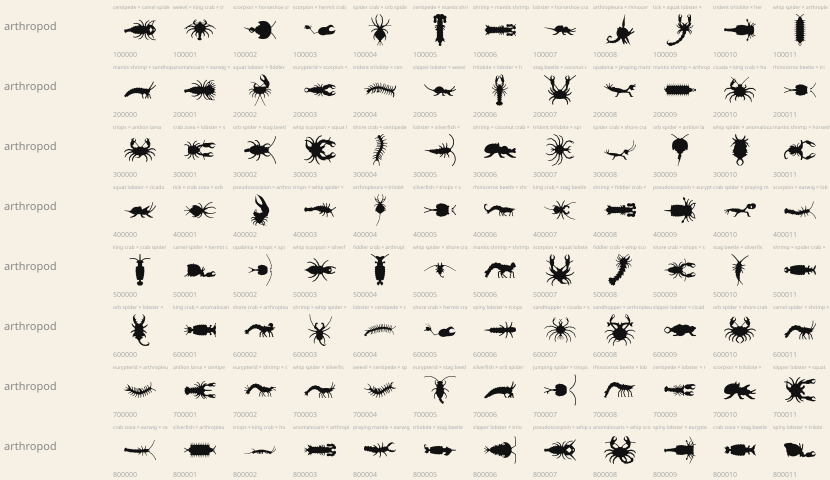
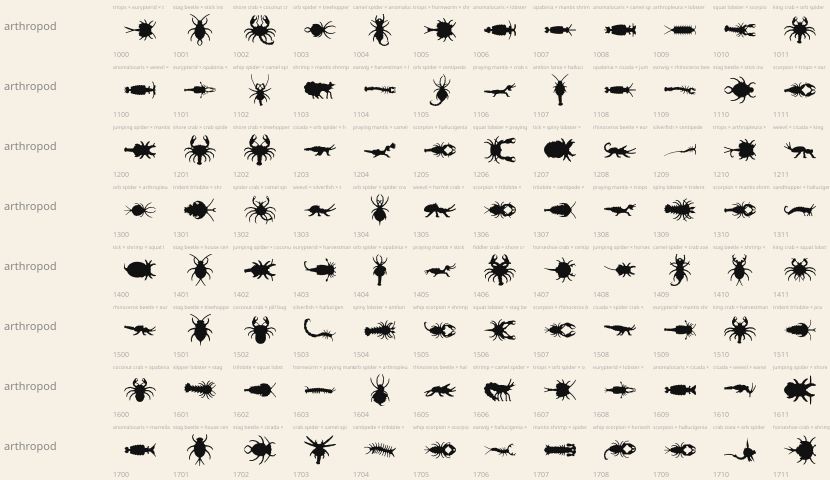
arthropod: chimera fixes (foreign-part detection, chain/plated borrowed pincers and tails, long forms flat, shield legs, thicker insect chimeras, antenna cap)

diff --git a/src/gen/tags/arthropod.js b/src/gen/tags/arthropod.js
@@ -156,7 +156,7 @@ heads.arthropodHead = (C, sock, g) => {
 // In the mount frame F, +y sweeps outward (top view) or backward (side view).
 // ---------------------------------------------------------------------------
 crowns.arthropodAntenna = (C, m, F, s, g) => {
-  const k = C.ink, L = g.len * s, w = Math.max((g.w ?? 0.17) * s, MA * 1.15), fl = m.flip, a0 = m.dir, turn = fl * (g.curve ?? 0.5);
+  const ch = C.plan?.arthroChim, k = C.ink, L = ch ? Math.min(g.len * s, C.plan.r * 2.6) : g.len * s, w = Math.max((g.w ?? 0.17) * s, MA * (ch ? 1.4 : 1.15)), fl = m.flip, a0 = m.dir, turn = fl * (g.curve ?? 0.5);
   const base = F(-0.1, 0);
   switch (g.style) {
     case 'elbow': { // scape, then a bent funicle (ants, weevils)
@@ -354,12 +354,25 @@ const WINGS = (kind, size, o = {}) => ({ type: 'arthropodWings', kind, size, ...
 // CHASSIS: dispatch to a body form
 // ---------------------------------------------------------------------------
 const FORMS = {};
+const LONG = new Set(['plated', 'trilobite', 'stomatopod', 'chain', 'lobster', 'eurypterid', 'radiodont', 'marrella']);
+// chimera helpers: does slot sl come from a species of another body form?
+const foreignOf = g => sl => { const R = g.root, v = R && R[sl]; return !!(v && v.type !== 'none' && v.arthroForm && v.arthroForm !== g.form); };
+// a borrowed clawed leg set shows as a pair of pincers at the front of a long body
+function chimPincers(K, g, p, ang, w0, rr) {
+  if (!foreignOf(g)('limbs') || g.root.limbs.foreFoot !== 'arthropodChela') return;
+  for (const sd of [-1, 1]) {
+    const base = polar(p, ang + sd * PI / 2, w0 * 0.7);
+    const a = arm(K.k, base, [[ang + sd * 0.95, rr * 1.5], [ang - sd * 0.15, rr * 1.4]], Math.max(rr * 0.75, 2.4));
+    chela(K.k, a.p, ang - sd * 0.25, rr * 1.7, { flip: -sd, fat: 0.44, open: 0.35 });
+  }
+}
 chassis.arthropodBody = (C, g) => {
   const root = g.root, nat = !!(root && root.limbs && root.limbs.arthro);
   // a chimera blends rot between 0 and UP: snap to the nearer of the two views
-  const rot = g.rot == null ? 0 : (g.rot < -PI / 4 ? -PI / 2 : 0), k = new Pen(C.ink, rot), socks = [];
+  const fo = foreignOf(g), chim = ['head', 'limbs', 'tail', 'crown'].some(fo);
+  const rot = g.rot == null || (chim && LONG.has(g.form)) ? 0 : (g.rot < -PI / 4 ? -PI / 2 : 0), k = new Pen(C.ink, rot), socks = [];
   const K = {
-    k, rng: C.rng, nat, pl: C.plump, C,
+    k, rng: C.rng, nat, pl: C.plump, C, chim,
     // a leg: drawn by us when the limbs are our own, otherwise offered as a socket (role null: never a socket)
     limb(p, dir, s, role, side, draw, far) { if (nat) { if (draw) draw(); } else if (role) socks.push({ p, dir, s, role, side, far }); },
   };
@@ -372,7 +385,7 @@ chassis.arthropodBody = (C, g) => {
   if (g.wings && root && root.dorsal !== g.wings) back.forEach((st, si) => { const n = st.length; dorsals.arthropodWings(C, { view: pl.view, r: pl.r, back }, st, si ? 1 : -1, si, g.wings, u => st[clamp(Math.round(u * (n - 1)), 0, n - 1)]); });
   const h = pl.head, t = pl.tail;
   return {
-    view: pl.view, r: pl.r, path, rad, back, ...(pl.rooted ? { rooted: true } : {}),
+    view: pl.view, r: pl.r, path, rad, back, ...(pl.rooted ? { rooted: true } : {}), ...(chim ? { arthroChim: true } : {}),
     head: { p: tp(h.p), dir: h.dir + rot, face: (h.face ?? h.dir) + rot, s: h.s, sym: !sideV, arthroBare: !!h.bare, arthroW: h.W },
     tail: { p: tp(t.p), dir: t.dir + rot, s: t.s },
     limbs: socks.map(s => ({ p: tp(s.p), dir: s.dir + rot, s: s.s, role: s.role, side: s.side ?? 1, far: s.far, fwd: sideV ? 0 : rot, ...(sideV && s.role !== 'arm' ? { ground: 0 } : {}) })),
@@ -500,7 +513,10 @@ FORMS.chain = (K, g) => {
     }
   });
   const e = pathAt(path, 1), b = pathAt(path, 0);
-  return { view: 'top', r: Math.max(g.r, 4), path, rad, head: { p: polar(e.p, e.ang, -L / n * 0.3), dir: e.ang, s: rad(1) * g.headS }, tail: { p: polar(b.p, b.ang, L / n * 0.4), dir: b.ang + PI, s: rad(0.02) * (g.tailS ?? 0.9) } };
+  // chimera: parts from other body forms get sockets big enough to read (else it is just a centipede)
+  const fo = foreignOf(g), fH = fo('head'), fT = fo('tail'), rr = g.r * K.pl;
+  chimPincers(K, g, e.p, e.ang, rad(1), rr);
+  return { view: 'top', r: Math.max(g.r, 4), path, rad, head: { p: polar(e.p, e.ang, -L / n * 0.3), dir: e.ang, s: rad(1) * g.headS * (fH ? 1.45 : 1) }, tail: { p: polar(b.p, b.ang, L / n * 0.4), dir: b.ang + PI, s: fT ? Math.max(rr * 1.5, 5) : rad(0.02) * (g.tailS ?? 0.9) } };
 };
 
 // Plated ovals: woodlice, giant isopods and trilobites. Head shield, pleural points, tail shield.
@@ -521,7 +537,9 @@ FORMS.plated = (K, g) => {
   if (g.genal) for (const sd of [-1, 1]) tb(k, [[xh + hl * 0.35, sd * Wc * 0.78], [xh - g.genal * 0.5, sd * Wc * 1.04], [xh - g.genal, sd * Wc * (g.genalIn ?? 0.98)]], profile([[0, hl * 0.3], [0.5, hl * 0.2], [1, 0.3]]));
   if (g.tailPts) symP(k, [[xt + seg * 0.5, 0], [xt + seg * 0.5, Wp], [xt - tl * 0.25, Wp * 1.02], [xt - tl * 0.55, Wp * 0.62], [xt - tl * 0.4, Wp * 0.45], [xt - tl * 0.95, Wp * 0.3], [xt - tl * 0.7, Wp * 0.12], [xt - tl * 1.1, 0]]);
   else sym(k, [[xt + seg * 0.6, 0], [xt + seg * 0.5, Wp], [xt - tl * 0.35, Wp * 0.88], [xt - tl * 0.8, Wp * 0.5], [-L / 2, 0]]);
-  return { view: 'top', r: W * 0.8, path: axis(-L / 2, L / 2), rad: t => W * g.env(t), head: { p: [L / 2 - hl * 0.15, 0], dir: 0, s: Wc * 0.55, bare: true, W: 0.6 }, tail: { p: [-L / 2 + 1, 0], dir: PI, s: Math.max(Wp * 0.4, 2.2) } };
+  const fo = foreignOf(g);
+  chimPincers(K, g, [L / 2 - hl * 0.3, 0], 0, Wc, W * 0.75);
+  return { view: 'top', r: W * 0.8, path: axis(-L / 2, L / 2), rad: t => W * g.env(t), head: { p: [L / 2 - hl * 0.15, 0], dir: 0, s: Wc * (fo('head') ? 0.8 : 0.55), bare: true, W: 0.6 }, tail: { p: [-L / 2 + 1, 0], dir: PI, s: fo('tail') ? W * 0.95 : Math.max(Wp * 0.4, 2.2) } };
 };
 
 // Trilobite: half-moon cephalon with genal spines, a thorax whose pleural tips saw-tooth
@@ -658,6 +676,12 @@ FORMS.shrimp = (K, g) => {
 // Insects in side view: thorax, abdomen (smooth, scalloped, domed, or on a waist), and three
 // leg pairs (near and far), with special legs: jumping hind legs, raptorial or digging forelegs.
 FORMS.insect = (K, g) => {
+  // chimeras of slim insects come out as hairline sticks at print size: give them some body
+  if (K.chim) {
+    const ay0 = g.aProf ? Math.max(...g.aProf.map(q => q[1])) : g.ay, f = Math.max(1, 3.4 / ay0);
+    g = Object.assign(Object.create(g), { ty: Math.max(g.ty, 3.2), ay: Math.max(g.ay, 3.4), ...(g.aProf ? { aProf: g.aProf.map(([t, v]) => [t, v * f]) } : {}),
+      legs: g.legs.map(L => ({ ...L, w: Math.max(L.w, 2.1) })) });
+  }
   const { k } = K, tx = g.tx, ty = g.ty * K.pl, cy = -(g.legH + ty), T0 = [0, cy];
   // ----- abdomen
   const aTilt = g.aTilt ?? 0.1, ax = g.ax, ay = g.ay * K.pl;
@@ -785,6 +809,7 @@ FORMS.pillball = (K, g) => {
 
 // Hermit crab in side view: a stepped spiral shell, the crab's front end out of the aperture.
 FORMS.hermit = (K, g) => {
+  if (K.chim) g = Object.assign(Object.create(g), { S: g.S * 0.8 }); // borrowed parts get a share of the critter
   const { k } = K, S = g.S * K.pl, lift = g.lift, c = [-S * 0.25, -(S + lift)];
   oval(k, c, S * (g.bodyX ?? 1.05), S, g.tilt ?? -0.15);
   let p = c, rr = S, a = PI + (g.spireA ?? 0.75);
@@ -823,8 +848,11 @@ FORMS.shield = (K, g) => {
     for (const sd of [-1, 1]) whip(k, e, PI + sd * g.splay, g.T, sd * 0.15, Math.max(Wc * 0.1, MA * 1.2), MA);
     tailP = e; tailS = Wc * 0.15;
   }
-  for (const [x, role] of [[0.6, 'fore'], [0.15, 'mid'], [-0.25, 'hind']]) for (const sd of [-1, 1]) K.limb([Lp * x, sd * Wp * 0.75], sd * (PI / 2 + x * -0.6), Wp * 0.4, role, sd, null);
-  return { view: 'top', r: Wp * 0.8, path: axis(tailP[0], Lp), rad: t => Wp * 0.7, head: { p: [Lp * 0.8, 0], dir: 0, s: Wp * 0.35, bare: true, W: 0.9 }, tail: { p: tailP, dir: PI, s: tailS } };
+  // a chimera with borrowed legs shows them past the shield rim (else it is a legless oval)
+  const tri = g.kind !== 'horseshoe', fl = K.chim && foreignOf(g)('limbs'), xs = tri ? [0.3, 0.1, -0.12] : [0.6, 0.15, -0.25];
+  if (fl && g.root.limbs.foreFoot === 'arthropodChela') chimPincers(K, g, [Lp * (tri ? 0.42 : 0.8), 0], 0, Wp * 0.5, Wp * 0.3);
+  xs.forEach((x, i) => { const role = ['fore', 'mid', 'hind'][i]; for (const sd of [-1, 1]) { const base = [Lp * x, sd * Wp * 0.75], a0 = sd * (PI / 2 + (i - 1) * 0.55); K.limb(base, a0, Wp * 0.4, role, sd, fl ? () => tleg(k, base, a0, sd * (i < 1 ? -0.4 : 0.45), Wp * 0.85, Math.max(Wp * 0.13, 2.2)) : null); } });
+  return { view: 'top', r: Wp * 0.8, path: axis(tailP[0], Lp), rad: t => Wp * 0.7, head: { p: [Lp * (tri ? 0.42 : 0.8), 0], dir: 0, s: Wp * 0.35, bare: true, W: 0.9 }, tail: { p: tailP, dir: PI, s: tailS } };
 };
 
 // Anomalocaris and Opabinia from above: lobed swimming flaps down both sides, a tail fan of
@@ -1051,6 +1079,8 @@ const CLAWED = (r, o = {}) => LEND(r, { foreFoot: 'arthropodChela', clawS: r.ran
 function G(ch, o = {}) {
   const g = { chassis: { type: 'arthropodBody', ...ch }, head: o.head ?? HEAD(), limbs: o.limbs, tail: o.tail ?? none(), dorsal: o.dorsal ?? none(), crown: o.crown ?? none(), surface: { eyes: 'none' } };
   Object.defineProperty(g.chassis, 'root', { value: g, enumerable: false });
+  // each slot remembers the body form it came from, so a chimera chassis can tell foreign parts
+  for (const sl of ['head', 'limbs', 'tail', 'dorsal', 'crown']) if (g[sl]) Object.defineProperty(g[sl], 'arthroForm', { value: ch.form, configurable: true });
   if (ch.form === 'flyer' && g.dorsal.type === 'arthropodWings') Object.defineProperty(g.chassis, 'wings', { value: g.dorsal, enumerable: false });
   return g;
 }

diff --git a/docs/tags/arthropod.md b/docs/tags/arthropod.md
@@ -32,6 +32,23 @@ outline are welcome).
 
 ## State
 
+**2026-11-14 M8 chimera fix round** (after shared f620c27, seeds 1000-1047, hybrid 1): 51 species.
+Sheet `out/roads/07-arthropod-chimeras.png` (seeds 1000-1711, cell 60).
+- Every slot gene carries a non-enumerable `arthroForm` (the body form of its species); the
+  chassis calls a part foreign when its form differs (`foreignOf`), and a critter with any
+  foreign head/limbs/tail/crown is a chimera (`K.chim`, plan `arthroChim`).
+- Chain and plated chimeras: foreign tails/heads get sockets sized to the body (a sting or tail
+  fan now shows), borrowed clawed legs draw a pair of front pincers (`chimPincers`).
+- Long forms (plated, trilobite, stomatopod, chain, lobster, eurypterid, radiodont, marrella)
+  lie flat (rot 0) in chimeras: no more bodies standing on end.
+- Shield (triops, horseshoe) chimeras with borrowed legs draw them past the rim (no legless
+  ovals); triops head socket moved onto the carapace (antennae were floating off the front).
+- Insect-form chimeras: min thorax 3.2, abdomen 3.4, leg width 2.1 (no hairline sticks).
+- Antennae on chimeras capped at 2.6 x body r and drawn a bit thicker. Hermit shell 0.8x.
+- Still weak: small side-view mantis/stick chimeras (thick enough now, but small in the cell),
+  trilobite chimeras with hornworm/beetle bits (lumpy), squat-lobster chimeras laid flat with
+  crossing antennae, occasional thin worm-form chimeras (1209, 1710), weevil heads on crabs.
+
 **2026-11-14 M8 phase 2 (chimeras at hybrid 1)**: 52 -> 51 species (woodlouse cut, user decision).
 Sheet `out/roads/07-arthropod-chimeras.png` (8 seeds x 12, cell 60).
 - Root cause of thin/sparse chimeras: `hybridize` copies the chassis gene by spread, which drops
